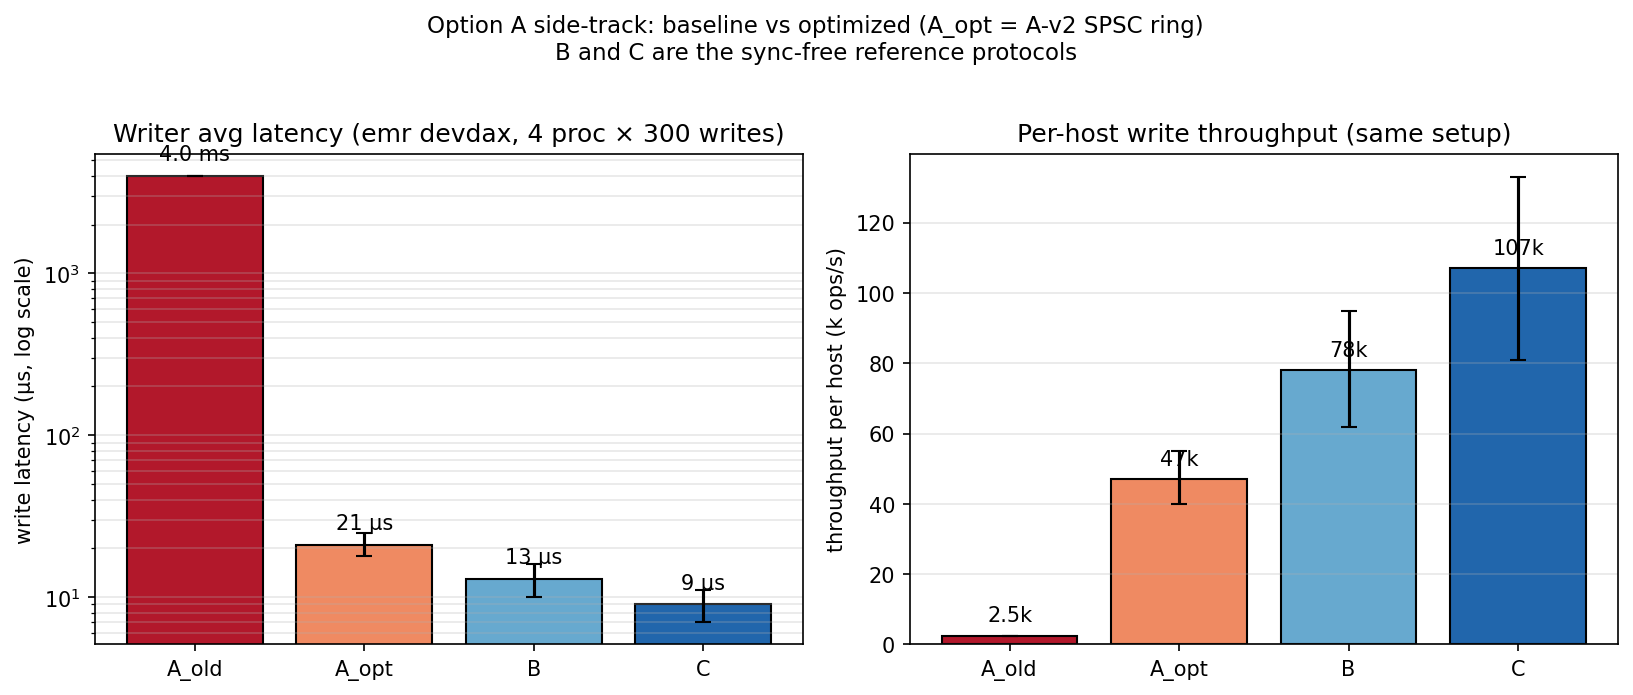
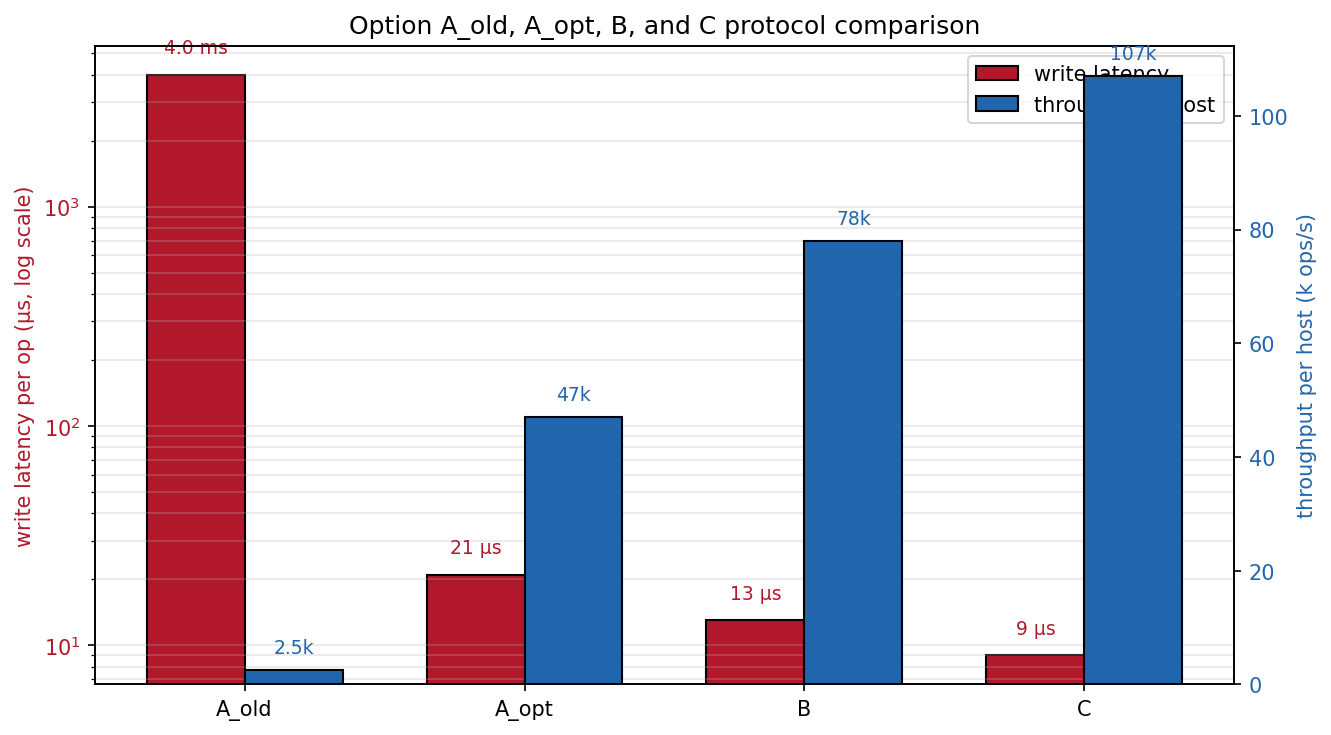
[viz] side-track compare: single dual-axis chart, new title, no error bars

diff --git a/docs/plot_option_a_side_track.py b/docs/plot_option_a_side_track.py
@@ -1,8 +1,8 @@
 #!/usr/bin/env python3
-"""Two-panel comparison: baseline A (A_old), A-v2 (A_opt), B, C.
+"""Single-panel dual-axis comparison of A_old, A_opt, B, and C.
 
-Left panel: write latency per op (log scale, us).
-Right panel: throughput per host (kops/s, linear).
+Left y-axis: write latency per op (log scale, us).
+Right y-axis: throughput per host (kops/s, linear).
 
 Numbers are from docs/option_a_side_track.md and option_a_perf_analysis.md,
 measured on emr devdax at 4 proc x 1 thread x 300 pure writes (wratio=1.0),
@@ -18,50 +18,47 @@ except ImportError:
     import sys; sys.exit("matplotlib required")
 
 protocols = ["A_old", "A_opt", "B", "C"]
-# Use midpoints of measured ranges for a clean single-bar chart.
-latency_us   = [4000, 21, 13, 9]
-thpt_k_host  = [2.5, 47, 78, 107]
-# Range bars for the ones that had observed ranges (baseline A was singular).
-latency_err_low  = [0,  3, 3, 2]
-latency_err_high = [0,  4, 3, 2]
-thpt_err_low     = [0,  7, 16, 26]
-thpt_err_high    = [0,  8, 17, 26]
+latency_us  = [4000, 21, 13, 9]
+thpt_k_host = [2.5, 47, 78, 107]
 
-colors = {"A_old": "#b2182b", "A_opt": "#ef8a62",
-          "B":     "#67a9cf", "C":     "#2166ac"}
-
-fig, (ax1, ax2) = plt.subplots(1, 2, figsize=(11, 4.5))
+fig, ax1 = plt.subplots(figsize=(9, 5))
 
 x = np.arange(len(protocols))
+bar_w = 0.35
 
-ax1.bar(x, latency_us, yerr=[latency_err_low, latency_err_high],
-        color=[colors[p] for p in protocols], edgecolor="black",
-        capsize=4)
+lat_color  = "#b2182b"
+thpt_color = "#2166ac"
+
+b1 = ax1.bar(x - bar_w/2, latency_us, bar_w,
+             color=lat_color, edgecolor="black", label="write latency")
 ax1.set_yscale("log")
-ax1.set_ylabel("write latency (μs, log scale)")
-ax1.set_title("Writer avg latency (emr devdax, 4 proc × 300 writes)")
-ax1.set_xticks(x); ax1.set_xticklabels(protocols)
-ax1.grid(True, axis="y", which="both", alpha=0.3)
+ax1.set_ylabel("write latency per op (μs, log scale)", color=lat_color)
+ax1.tick_params(axis="y", labelcolor=lat_color)
+ax1.set_xticks(x)
+ax1.set_xticklabels(protocols)
+
+ax2 = ax1.twinx()
+b2 = ax2.bar(x + bar_w/2, thpt_k_host, bar_w,
+             color=thpt_color, edgecolor="black", label="throughput / host")
+ax2.set_ylabel("throughput per host (k ops/s)", color=thpt_color)
+ax2.tick_params(axis="y", labelcolor=thpt_color)
+
+# Value annotations.
 for i, v in enumerate(latency_us):
-    if v >= 1000:
-        lbl = f"{v/1000:.1f} ms"
-    else:
-        lbl = f"{v} μs"
-    ax1.text(i, v * 1.25, lbl, ha="center", fontsize=10)
-
-ax2.bar(x, thpt_k_host, yerr=[thpt_err_low, thpt_err_high],
-        color=[colors[p] for p in protocols], edgecolor="black",
-        capsize=4)
-ax2.set_ylabel("throughput per host (k ops/s)")
-ax2.set_title("Per-host write throughput (same setup)")
-ax2.set_xticks(x); ax2.set_xticklabels(protocols)
-ax2.grid(True, axis="y", alpha=0.3)
+    lbl = f"{v/1000:.1f} ms" if v >= 1000 else f"{v} μs"
+    ax1.text(i - bar_w/2, v * 1.25, lbl, ha="center", fontsize=9,
+             color=lat_color)
 for i, v in enumerate(thpt_k_host):
-    ax2.text(i, v + 4, f"{v:g}k", ha="center", fontsize=10)
+    ax2.text(i + bar_w/2, v + 3, f"{v:g}k", ha="center", fontsize=9,
+             color=thpt_color)
 
-fig.suptitle("Option A side-track: baseline vs optimized (A_opt = A-v2 SPSC ring)\n"
-             "B and C are the sync-free reference protocols",
-             fontsize=11, y=1.02)
+ax1.set_title("Option A_old, A_opt, B, and C protocol comparison")
+ax1.grid(True, axis="y", which="both", alpha=0.3)
+
+lines = [b1, b2]
+labels = ["write latency", "throughput / host"]
+ax1.legend(lines, labels, loc="upper right")
+
 fig.tight_layout()
 out = os.path.join(os.path.dirname(__file__), "option_a_side_track_compare.png")
 fig.savefig(out, dpi=150, bbox_inches="tight")
